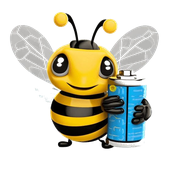
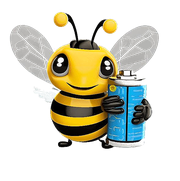
88fdb821-1516-4b46-a7d0-e0f47460f34a

diff --git a/src/components/solar/BrandBanner.tsx b/src/components/solar/BrandBanner.tsx
@@ -1,0 +1,36 @@
+'use client';
+
+import { motion } from 'framer-motion';
+
+export default function BrandBanner() {
+  return (
+    <section className="relative overflow-hidden">
+      <div className="relative h-64 sm:h-80 md:h-96">
+        <img
+          src="/fb-cover.png"
+          alt="Solar Ireland - Sun-Powered Solutions, Made in Ireland"
+          className="w-full h-full object-cover object-center"
+        />
+        <div className="absolute inset-0 bg-gradient-to-r from-black/50 via-transparent to-black/50" />
+        <div className="absolute inset-0 flex items-center justify-center">
+          <motion.div
+            className="text-center"
+            initial={{ opacity: 0, y: 20 }}
+            whileInView={{ opacity: 1, y: 0 }}
+            viewport={{ once: true }}
+            transition={{ duration: 0.8 }}
+          >
+            <img
+              src="/logo-md.png"
+              alt="Solar Ireland"
+              className="h-16 sm:h-20 mx-auto mb-4"
+            />
+            <p className="text-white text-lg sm:text-xl font-medium tracking-wide">
+              Sun-Powered Solutions, Made in Ireland
+            </p>
+          </motion.div>
+        </div>
+      </div>
+    </section>
+  );
+}

diff --git a/src/components/solar/WhatsAppChat.tsx b/src/components/solar/WhatsAppChat.tsx
@@ -3,7 +3,6 @@
 import { useState, useRef, useEffect } from 'react';
 import { MessageCircle, X, Send } from 'lucide-react';
 import { Button } from '@/components/ui/button';
-import BumblebeeMascot from './BumblebeeMascot';
 
 interface Message {
   role: 'user' | 'assistant';
@@ -91,7 +90,7 @@ export default function WhatsAppChat() {
         size="icon"
         aria-label={isOpen ? 'Close chat' : 'Open chat'}
       >
-        {isOpen ? <X className="w-6 h-6" /> : <BumblebeeMascot size="sm" animate={false} />}
+        {isOpen ? <X className="w-6 h-6" /> : <MessageCircle className="w-6 h-6" />}
       </Button>
 
       {/* Chat Panel */}
@@ -100,7 +99,7 @@ export default function WhatsAppChat() {
           {/* Header */}
           <div className="flex items-center gap-3 px-4 py-3 bg-green-600 text-white">
             <div className="w-9 h-9 rounded-full bg-white/20 flex items-center justify-center overflow-hidden">
-              <BumblebeeMascot size="sm" animate={false} />
+              <img src="/logo-sm.png" alt="Solar Ireland" className="w-6 h-6 object-contain" />
             </div>
             <div className="flex-1 min-w-0">
               <p className="font-semibold text-sm">Solar Ireland</p>

diff --git a/src/components/solar/Navbar.tsx b/src/components/solar/Navbar.tsx
@@ -3,7 +3,6 @@
 import { useState } from 'react';
 import { Menu, X } from 'lucide-react';
 import { Button } from '@/components/ui/button';
-import BumblebeeMascot from './BumblebeeMascot';
 
 const navLinks = [
   { label: 'How It Works', href: '#how-it-works' },
@@ -27,13 +26,13 @@ export default function Navbar() {
   return (
     <nav className="fixed top-0 left-0 right-0 z-40 bg-black/80 backdrop-blur-lg border-b border-white/[0.06]">
       <div className="max-w-6xl mx-auto px-4 h-16 flex items-center justify-between">
-        {/* Logo with Bumblebee */}
+        {/* Logo */}
         <button
           onClick={() => window.scrollTo({ top: 0, behavior: 'smooth' })}
           className="flex items-center gap-2"
         >
-          <BumblebeeMascot size="sm" animate={false} />
-          <span className="font-bold text-white">Solar Ireland</span>
+          <img src="/logo-sm.png" alt="Solar Ireland" className="h-9 w-auto" />
+          <span className="font-bold text-white hidden sm:inline">Solar Ireland</span>
         </button>
 
         {/* Desktop Links */}

diff --git a/src/components/solar/Footer.tsx b/src/components/solar/Footer.tsx
@@ -1,7 +1,6 @@
 'use client';
 
 import { MessageCircle, Mail, MapPin } from 'lucide-react';
-import BumblebeeMascot from './BumblebeeMascot';
 
 export default function Footer() {
   return (
@@ -11,7 +10,7 @@ export default function Footer() {
           {/* Company */}
           <div>
             <div className="flex items-center gap-2 mb-4">
-              <BumblebeeMascot size="sm" animate={false} />
+              <img src="/logo-sm.png" alt="Solar Ireland" className="h-8 w-auto" />
               <span className="font-bold text-lg">Solar Ireland</span>
             </div>
             <p className="text-sm text-gray-500 leading-relaxed">

diff --git a/src/app/page.tsx b/src/app/page.tsx
@@ -2,6 +2,7 @@
 
 import Navbar from '@/components/solar/Navbar';
 import Hero from '@/components/solar/Hero';
+import BrandBanner from '@/components/solar/BrandBanner';
 import HowItWorks from '@/components/solar/HowItWorks';
 import WhySolar from '@/components/solar/WhySolar';
 import GrantInfo from '@/components/solar/GrantInfo';
@@ -17,6 +18,7 @@ export default function Home() {
 
       <main>
         <Hero />
+        <BrandBanner />
         <div id="how-it-works">
           <HowItWorks />
         </div>

diff --git a/src/app/layout.tsx b/src/app/layout.tsx
@@ -27,7 +27,7 @@ export const metadata: Metadata = {
   ],
   authors: [{ name: "Solar Ireland" }],
   icons: {
-    icon: "/bumblebee-favicon.png",
+    icon: "/logo-favicon.png",
   },
   openGraph: {
     title: "Solar Ireland | Solar Panel Installation",

diff --git a/worklog.md b/worklog.md
@@ -60,3 +60,26 @@ Stage Summary:
 - AI Bill Analyser widget replaces simple calculator — matches original design from screenshot
 - VLM-powered bill reading: upload ESB/Electric Ireland/Bord Gáis/SSE Airtricity bills for instant AI analysis
 - New files: public/bumblebee.png (transparent), public/bumblebee-hero.png, public/bumblebee-md.png, public/bumblebee-sm.png, public/bumblebee-favicon.png, public/bumblebee-flip.png, src/components/solar/BumblebeeMascot.tsx, src/components/solar/BillAnalyser.tsx, src/app/api/analyse-bill/route.ts
+
+---
+Task ID: 3
+Agent: Main Agent
+Task: Use official Solar Ireland logo + clean up bumblebee eyes
+
+Work Log:
+- Analysed uploaded Solar Ireland LOGO.jpeg (yellow circular ring on black background) and FB cover (1640x924 brand banner with logo, tagline, bumblebee, honeycomb)
+- Processed logo: removed black background, created transparent PNG in 4 sizes (logo-lg 200px, logo-md 120px, logo-sm 48px, logo-favicon 32px)
+- Cleaned bumblebee eyes: applied double sharpening pass, contrast boost on head region (y:80-220), regenerated all size variants
+- Replaced placeholder bumblebee with official logo in: Navbar, Footer, WhatsAppChat header, browser favicon
+- Bumblebee mascot still used in: Hero section (animated), HowItWorks step 1 (flipped), BillAnalyser loading state
+- Created BrandBanner component using FB cover image with overlaid logo and tagline "Sun-Powered Solutions, Made in Ireland"
+- Added BrandBanner between Hero and HowItWorks sections
+- Updated layout.tsx favicon to use official logo
+- ESLint passes, dev server compiles cleanly
+
+Stage Summary:
+- Official Solar Ireland logo (yellow ring) now used in all branding touchpoints: navbar, footer, chat widget, favicon
+- Bumblebee mascot preserved as character/mascot element in content sections (not replacing logo)
+- FB cover image used as brand banner section with gradient overlay
+- Bumblebee eyes cleaned with sharpening and contrast enhancement
+- New files: public/logo-transparent.png, public/logo-lg.png, public/logo-md.png, public/logo-sm.png, public/logo-favicon.png, public/fb-cover.png, src/components/solar/BrandBanner.tsx
